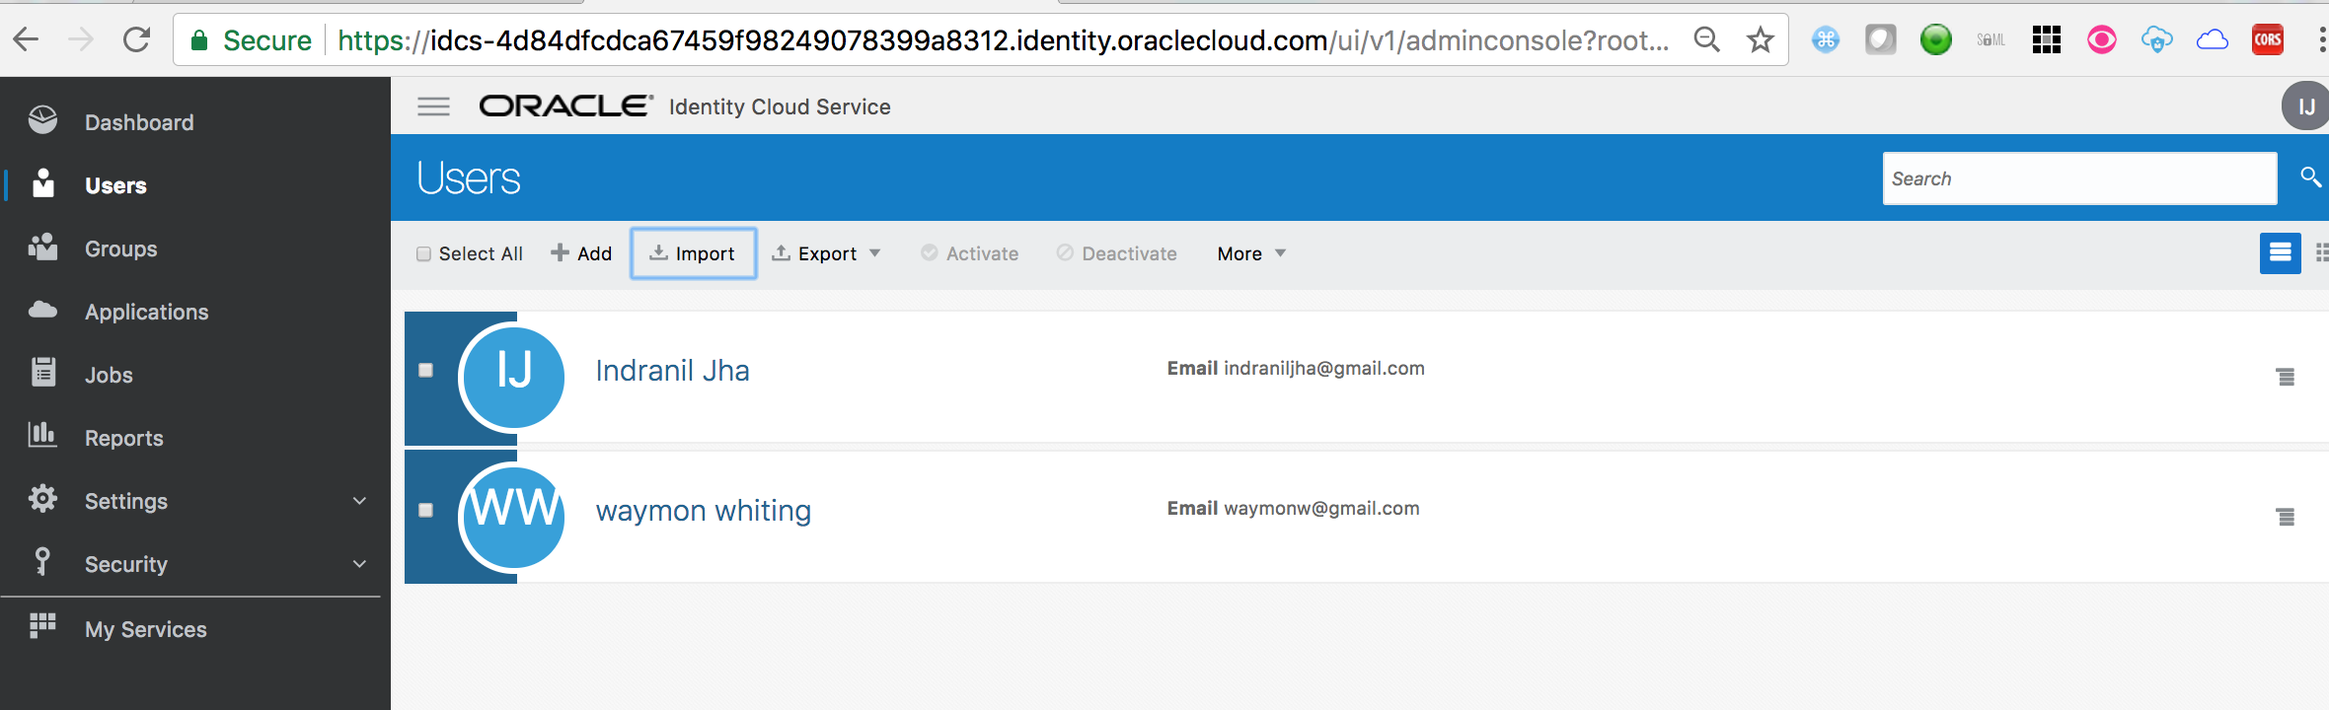
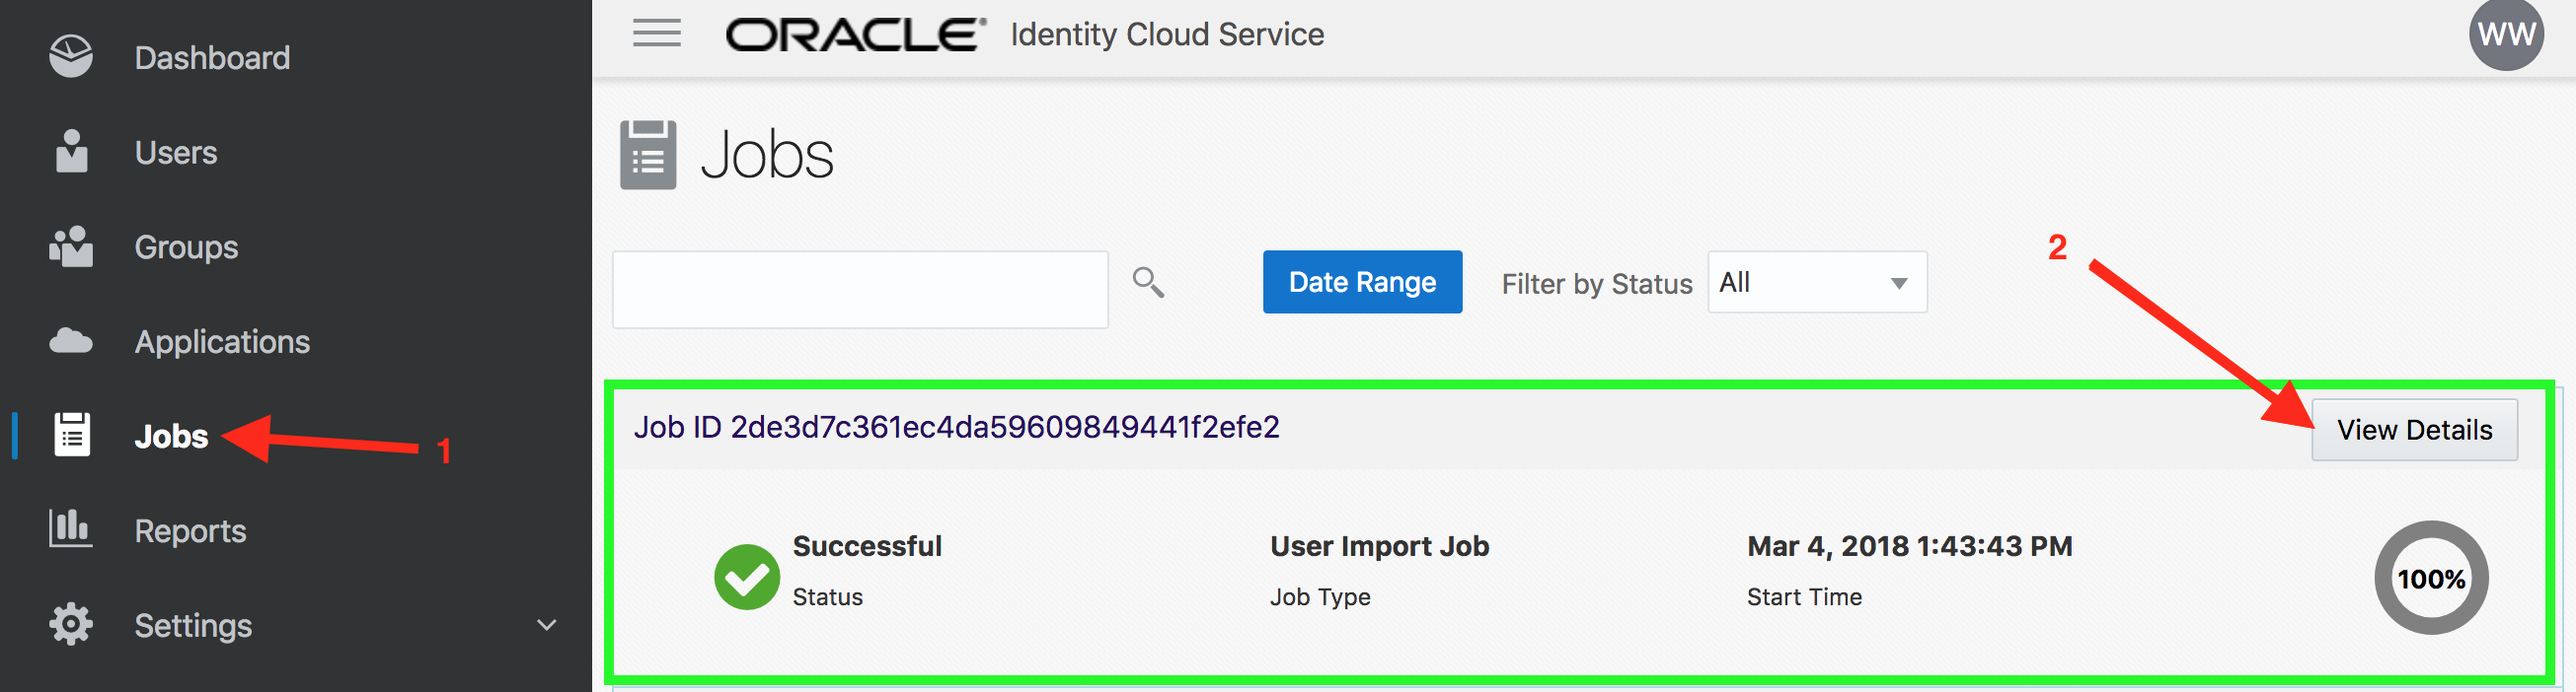
IDCS

diff --git a/IDCS100.md b/IDCS100.md
@@ -125,38 +125,53 @@ For the exercise we will be using `file upload` option for users.
 
 ### **STEP 1**: Obtain upload CSV file
 
-- Download the CSV file for [Users](resources/Users.csv). Inspect the content of the file from your favorite editor.
+- Download the CSV file for users from [here](resources/Users.csv). Right-click on the link and save the file in your system. Inspect the content of the file from your favorite editor.
 	
 
 ### **STEP 2**: Import users in IDCS
 
-- Go to IDCS Admin console using your administrator account credentials. Ensure that you are on the **Users** tab
+- Click on the **Users** icon from top right corner assuming you are still on the **Analytics** console.
 
-- Click on the **Import** button. 
+![](images/100/100-9.png)
 
-	![](images/100/100-12.png)
+- Click on **Identity Console** from top right corner of the **User Management** page.
+
+![](images/100/100-9-1.png)
+
+- On the **Users** page, click on the **Import** button. 
+
+![](images/100/100-10.png)
 	
-- Select the **CSV** file. Click on **Import**
+- Select the **CSV** file that you saved locally. Click on **Import**
 
-    ![](images/100/100-13.png)
+![](images/100/100-11.png)
 
-- Go to the **Jobs** tab in admin console. Verify that the import Job finished successfully.
+- Go to the **Jobs** tab in admin console. Verify that the import Job finished successfully. Click on **View Details** button.
 
-    ![](images/100/100-10.png)
+![](images/100/100-12.png)
     
-- Click on **View Details** button. This will show the detailed information on the **Import** job. Inspect the details.
+- This will show the detailed information on the **Import** job. Inspect the details.
 
-    ![](images/100/100-11.png)
+![](images/100/100-13.png)
 
 ### **STEP 3**: Verify user creation
 
-- Go to the **Users** tab in admin console. Verify that the new users are visible on the console.
+- Go to the **Users** menu in admin console. Verify that the new users are visible on the console.
 
-    ![](images/100/100-14.png)
+![](images/100/100-14.png)
+
+![](images/100/100-14-1.png)
 
 - Click on your target end-user and verify user's detailed attribute information.
 
-    ![](images/100/100-15.png)
+	<blockquote>
+		<font color="red">
+			User assigmnets will be provided before the session.
+		</font>
+	</blockquote>
+
+![](images/100/100-15.png)
+
     
 ## Configure SSO for an app - (Persona: Administrator)
 
